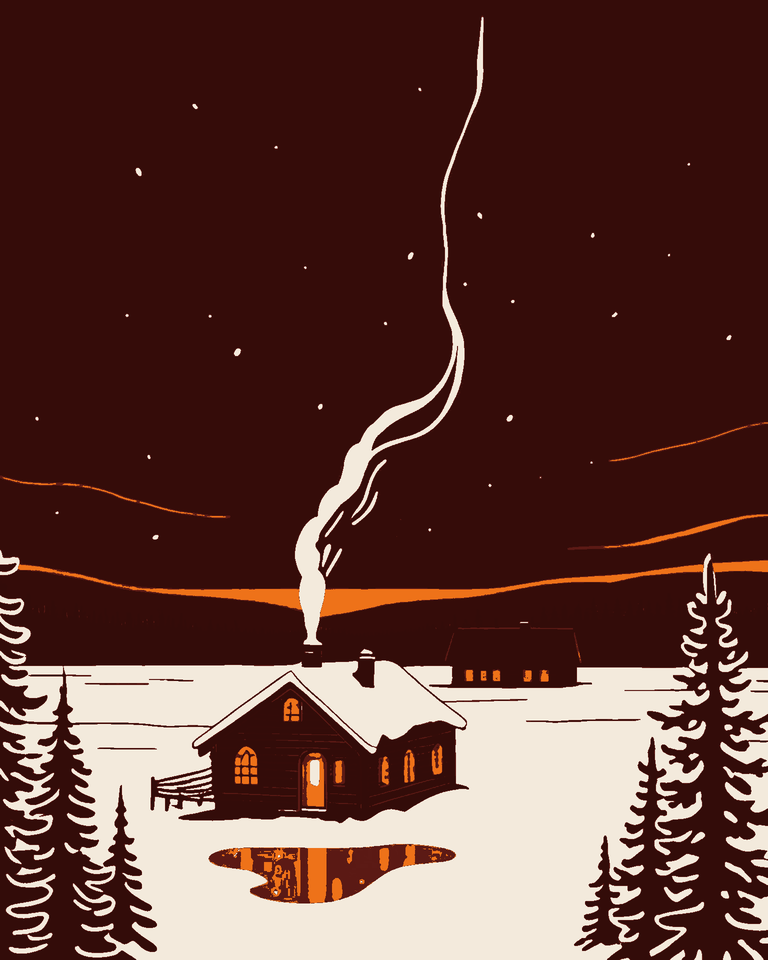
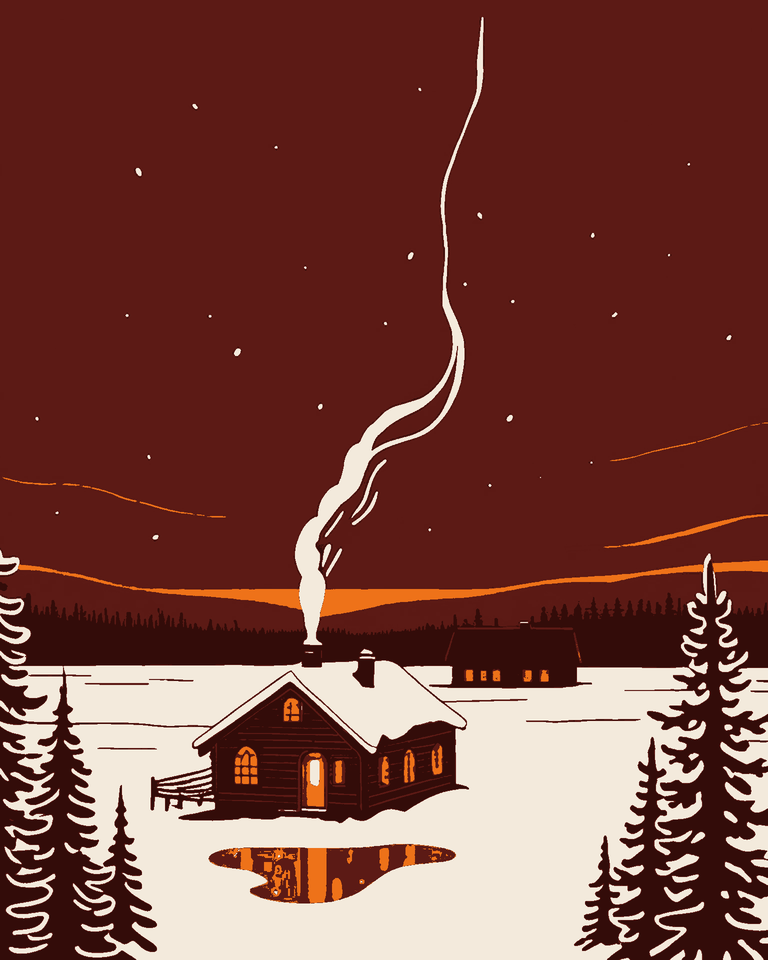
Couvertures en cours : travail des agents (en cours)
Claude-Session: https://claude.ai/code/session_014xDY5FLxFXDJt3nYAYznSZ

diff --git a/images/tomes/essais-ia/tome-5/scene_tome5_v2.py b/images/tomes/essais-ia/tome-5/scene_tome5_v2.py
@@ -1,0 +1,201 @@
+"""Image de départ du tome 5, deuxième version (après le premier tour, 18 octobre 2026).
+
+Au premier tour, le jardin en rangs sur fond papier devenait un champ de neige, l'abri à bois devenait un deuxième
+chalet et le billot disparaissait. Ici : le jardin est feuillu (plants ronds bien marqués, clôture de perches),
+la corde de bois est longue, basse et ouverte (bouts de bûches gros et nombreux, toit mince sur deux poteaux), le
+billot et la hache sont plus gros, le toit du chalet est foncé sans liseré clair, de l'herbe haute et des épilobes
+dans les coins du bas.
+
+    PYTHONDONTWRITEBYTECODE=1 python3 scene_tome5_v2.py ete      écrit depart2-ete.svg
+    PYTHONDONTWRITEBYTECODE=1 python3 scene_tome5_v2.py automne  écrit depart2-automne.svg
+"""
+import os
+import sys
+
+ICI = os.path.dirname(os.path.abspath(__file__))
+sys.path.insert(0, ICI)
+from scene_tome5 import C, W, H, Scene, f, pts, bouleau  # noqa: E402
+
+
+def plant(s, x, y, sc, coul, sorte):
+    """Un plant de jardin vu de trois quarts : touffe de feuilles foncées, nervure claire."""
+    A = s.add
+    if sorte == 0:      # chou : feuilles rondes qui s'ouvrent
+        for a, dx, dy in [(-35, -5, -1), (35, 5, -1), (0, 0, -4), (-70, -7, 2), (70, 7, 2)]:
+            A(f'<ellipse cx="{f(x + dx * sc)}" cy="{f(y + dy * sc)}" rx="{f(5.5 * sc)}" ry="{f(3.6 * sc)}" '
+              f'transform="rotate({a} {f(x + dx * sc)} {f(y + dy * sc)})" fill="{coul}"/>')
+        A(f'<circle cx="{f(x)}" cy="{f(y - 2 * sc)}" r="{f(2.4 * sc)}" fill="{C["paper2"]}"/>')
+    else:               # pomme de terre, haricot : touffe dressée de feuilles pointues
+        for a in (-50, -25, 0, 25, 50):
+            L = 9 * sc * s.u(0.8, 1.1)
+            A(f'<ellipse cx="{f(x)}" cy="{f(y - L / 2)}" rx="{f(1.9 * sc)}" ry="{f(L / 2)}" '
+              f'transform="rotate({a} {f(x)} {f(y)})" fill="{coul}"/>')
+            A(f'<path d="M{f(x)} {f(y)} v{f(-L * 0.8)}" transform="rotate({a} {f(x)} {f(y)})" stroke="{C["paper2"]}" '
+              f'stroke-width="{f(0.35 * sc)}" opacity=".8"/>')
+
+
+def scene(ambiance="ete"):
+    s = Scene(5205 if ambiance == "ete" else 5305)
+    A = s.add
+    automne = ambiance == "automne"
+    A(f'<svg xmlns="http://www.w3.org/2000/svg" width="{W}" height="{H}" viewBox="0 0 {W} {H}">')
+    A('<defs>'
+      f'<linearGradient id="ciel" x1="0" y1="0" x2="0" y2="1"><stop offset="0" stop-color="{C["sky0"]}"/>'
+      f'<stop offset=".5" stop-color="{C["sky1"]}"/><stop offset="1" stop-color="{C["sky2"]}"/></linearGradient>'
+      f'<radialGradient id="halo"><stop offset=".35" stop-color="{C["glow"]}" stop-opacity=".4"/>'
+      f'<stop offset="1" stop-color="{C["glow"]}" stop-opacity="0"/></radialGradient>'
+      '</defs>')
+    A(f'<rect x="0" y="0" width="{W}" height="{H}" fill="url(#ciel)"/>')
+
+    # le soleil bas, ses anneaux, quelques longues lignes de ciel près de l'horizon
+    sx, sy = (585, 486) if not automne else (180, 480)
+    A(f'<circle cx="{sx}" cy="{sy}" r="180" fill="url(#halo)"/>')
+    for k, r in enumerate([140, 110, 86]):
+        A(f'<circle cx="{sx}" cy="{sy}" r="{r}" fill="none" stroke="{C["sun2"]}" stroke-width="{2.2 - k * 0.4}" opacity="{.25 + k * .1}"/>')
+    A(f'<circle cx="{sx}" cy="{sy}" r="60" fill="{C["sun"]}"/>')
+    for i in range(6):
+        y = 410 + i * 12
+        x0 = s.u(-20, 120) if i % 2 else s.u(250, 380)
+        A(f'<path d="M{f(x0)} {f(y)} h{f(s.u(160, 300))}" stroke="{C["paper2"]}" stroke-width="{f(s.u(1.2, 2))}" '
+          f'stroke-linecap="round" opacity="{f(s.u(.16, .28))}"/>')
+
+    # collines basses
+    loin = s.onde(510, [(9, 0.8), (5, 1.9), (2, 6)])
+    A(f'<polygon points="{pts(loin + [(W + 40, 700), (-20, 700)])}" fill="{C["far"]}"/>')
+    for i in range(9):
+        y = 522 + i * 7
+        A(f'<path d="M{f(s.u(-20, 300))} {f(y)} q{f(s.u(80, 160))} {f(s.u(-6, 6))} {f(s.u(200, 420))} {f(s.u(-4, 4))}" fill="none" '
+          f'stroke="{C["sun2"]}" stroke-width="1.2" opacity=".32"/>')
+    milieu = s.onde(556, [(8, 1.1), (4, 2.7), (2, 7)])
+    A(f'<polygon points="{pts(milieu + [(W + 40, 720), (-20, 720)])}" fill="{C["mid"]}"/>')
+    ym = lambda x: min(y for xx, y in milieu if abs(xx - x) <= 6)
+    s.rangee(ym, -10, W + 30, 10, 20, C["mid"], dens=0.9)
+
+    # la forêt derrière le chalet : épinettes et bouleaux feuillus
+    bord = s.onde(646, [(4, 1.7), (2, 4.4)])
+    A(f'<polygon points="{pts(bord + [(W + 40, 720), (-20, 720)])}" fill="{C["near"]}"/>')
+    s.rangee(lambda x: 652, -10, W + 30, 50, 105, C["near"], dens=1.3)
+    for x, h in [(80, 118), (330, 104), (560, 120), (612, 96)]:
+        bouleau(s, x, 656, h, C["far"], feuilles_orange=automne)
+
+    # la clairière
+    sol = s.onde(664, [(3, 1.2), (1.5, 3.5)])
+    A(f'<polygon points="{pts(sol + [(W + 40, H + 40), (-20, H + 40)])}" fill="{C["paper"]}"/>')
+
+    # le chalet en rondins, toit foncé
+    cx, cy = 420, 684
+    A(f'<g transform="translate({cx} {cy})">')
+    A(f'<rect x="70" y="-94" width="13" height="36" fill="{C["front"]}"/>')
+    A(f'<polygon points="-4,-46 104,-46 105,2 -5,3" fill="{C["log"]}"/>')
+    for i in range(9):
+        y = -42 + i * 5.1
+        A(f'<path d="M-6 {f(y)} H106" stroke="{C["front"]}" stroke-width="1.3"/>')
+        A(f'<circle cx="-6" cy="{f(y + 1)}" r="2.6" fill="{C["logend"]}"/><circle cx="106" cy="{f(y + 1)}" r="2.6" fill="{C["logend"]}"/>')
+    A(f'<polygon points="-18,-42 50,-94 118,-42" fill="{C["front"]}"/>')
+    A(f'<rect x="14" y="-32" width="20" height="17" fill="{C["win"]}"/>')
+    A(f'<path d="M24 -32 v17 M14 -23.5 h20" stroke="{C["front"]}" stroke-width="1.6"/>')
+    A(f'<rect x="58" y="-30" width="15" height="30" fill="{C["front"]}"/>')
+    A(f'<path d="M-8 2 H108" stroke="{C["front"]}" stroke-width="3"/>')
+    A('</g>')
+    d = (f"M{cx + 76} {cy - 96} C{cx + 70} {cy - 122} {cx + 98} {cy - 130} {cx + 92} {cy - 154} "
+         f"C{cx + 86} {cy - 178} {cx + 120} {cy - 192} {cx + 150} {cy - 198}")
+    for w, op in [(14, .10), (8, .16), (3.5, .25)]:
+        A(f'<path d="{d}" fill="none" stroke="{C["paper"]}" stroke-width="{w}" stroke-linecap="round" opacity="{op}"/>')
+
+    # la corde de bois : longue, basse, ouverte, bouts de bûches gros ; toit mince sur deux poteaux
+    bx, by, larg = 112, 712, 230
+    nrang = 5 if not automne else 7
+    pas = 13
+    haut = nrang * pas
+    A(f'<path d="M{bx - 14} {by - haut - 26} L{bx + larg + 14} {by - haut - 16} L{bx + larg + 14} {by - haut - 11} '
+      f'L{bx - 14} {by - haut - 21}Z" fill="{C["front"]}"/>')
+    for x in (bx - 6, bx + larg + 6):
+        A(f'<rect x="{x - 3}" y="{by - haut - 20}" width="6" height="{haut + 20}" fill="{C["front"]}"/>')
+    A(f'<rect x="{bx}" y="{by - haut - 2}" width="{larg}" height="{haut + 2}" fill="{C["log"]}"/>')
+    for row in range(nrang):
+        k = 0
+        while True:
+            x = bx + 7 + k * pas + (pas / 2 if row % 2 else 0) + s.u(-1.5, 1.5)
+            if x > bx + larg - 6:
+                break
+            y = by - 7 - row * pas + s.u(-1, 1)
+            r = s.u(5.2, 6.6)
+            if s.r.random() < 0.3:     # bûche fendue : bout en quartier
+                A(f'<path d="M{f(x - r)} {f(y + r * 0.6)} L{f(x)} {f(y - r)} L{f(x + r)} {f(y + r * 0.6)}Z" fill="{C["logend"]}"/>')
+            else:
+                A(f'<circle cx="{f(x)}" cy="{f(y)}" r="{f(r)}" fill="{C["logend"]}"/>')
+                A(f'<circle cx="{f(x)}" cy="{f(y)}" r="{f(r * 0.5)}" fill="none" stroke="{C["log"]}" stroke-width=".8" opacity=".7"/>')
+            k += 1
+
+    # la clôture de perches devant le jardin
+    fy = 734
+    A(f'<path d="M-20 {fy - 10} L{W + 20} {fy - 14}" stroke="{C["front"]}" stroke-width="3"/>')
+    A(f'<path d="M-20 {fy} L{W + 20} {fy - 4}" stroke="{C["front"]}" stroke-width="3"/>')
+    for x in range(10, W, 64):
+        A(f'<path d="M{x} {fy + 8} L{x + 1} {fy - 26}" stroke="{C["front"]}" stroke-width="4" stroke-linecap="round"/>')
+
+    # le jardin : rangs de plants feuillus en perspective, sillons minces
+    vx, vy = 440, 600
+    top = 748
+    rangs = [vx + i * 104 for i in range(-10, 13)]
+    for i, xb in enumerate(rangs):
+        def at(y, xb=xb):
+            return vx + (xb - vx) * (y - vy) / (H + 40 - vy)
+        A(f'<polygon points="{f(at(top) - 1)},{top} {f(at(top) + 1)},{top} {f(at(H + 40) + 6)},{H + 40} {f(at(H + 40) - 6)},{H + 40}" '
+          f'fill="{C["soil"]}" opacity=".75"/>')
+        if i + 1 < len(rangs):
+            xb2 = rangs[i + 1]
+            sorte = i % 2
+            y = top + 4
+            while y < H + 20:
+                t = (y - vy) / (H + 40 - vy)
+                xm = vx + ((xb + xb2) / 2 - vx) * t
+                sc = 0.45 + 2.0 * (y - top) / (H - top)
+                if automne and sorte == 0 and s.r.random() < 0.3 and y > 800:
+                    A(f'<ellipse cx="{f(xm)}" cy="{f(y)}" rx="{f(7 * sc)}" ry="{f(5 * sc)}" fill="{C["sun"]}"/>')
+                else:
+                    plant(s, xm, y, sc, C["leaf"], sorte)
+                y += 10 + 30 * (y - top) / (H - top)
+
+    # le billot de fente, la hache plantée, des quartiers fendus et des copeaux
+    kx, ky = 176, 852
+    A(f'<ellipse cx="{kx}" cy="{ky + 66}" rx="86" ry="16" fill="{C["paper2"]}"/>')
+    A(f'<path d="M{kx - 58} {ky} L{kx - 62} {ky + 64} Q{kx} {ky + 80} {kx + 62} {ky + 64} L{kx + 58} {ky}Z" fill="{C["log"]}"/>')
+    for i in range(7):
+        x = kx - 50 + i * 16.5
+        A(f'<path d="M{f(x)} {ky + 8} v{f(s.u(38, 56))}" stroke="{C["front"]}" stroke-width="2"/>')
+    A(f'<ellipse cx="{kx}" cy="{ky}" rx="58" ry="15" fill="{C["logend"]}"/>')
+    for r in (44, 32, 20, 9):
+        A(f'<ellipse cx="{kx + 2}" cy="{ky}" rx="{r}" ry="{f(r * 0.26)}" fill="none" stroke="{C["log"]}" stroke-width="1.1"/>')
+    A(f'<path d="M{kx - 6} {ky - 3} L{kx + 78} {ky - 96}" stroke="{C["front"]}" stroke-width="10" stroke-linecap="round"/>')
+    A(f'<path d="M{kx - 30} {ky + 3} L{kx - 10} {ky - 20} L{kx + 10} {ky - 4} L{kx - 8} {ky + 8}Z" fill="{C["front"]}"/>')
+    A(f'<path d="M{kx - 30} {ky + 3} L{kx - 22} {ky - 6}" stroke="{C["paper"]}" stroke-width="2.5"/>')
+    for (x, y, a) in [(kx + 92, ky + 54, -15), (kx + 118, ky + 72, 12), (kx - 104, ky + 58, 20)]:
+        A(f'<g transform="rotate({a} {x} {y})"><path d="M{x - 30} {y - 9} L{x + 26} {y - 9} L{x + 26} {y + 8} L{x - 30} {y + 8}Z" '
+          f'fill="{C["log"]}"/><path d="M{x + 26} {y - 9} L{x + 34} {y - 0.5} L{x + 26} {y + 8}Z" fill="{C["logend"]}"/></g>')
+    for _ in range(14):
+        x, y = kx + s.u(-90, 110), ky + s.u(60, 90)
+        A(f'<path d="M{f(x)} {f(y)} l{f(s.u(4, 9))} {f(s.u(-2, 2))}" stroke="{C["logend"]}" stroke-width="2.4" stroke-linecap="round"/>')
+
+    # herbe haute et épilobes dans les coins du bas
+    for x0, x1 in ((-10, 120), (620, 780)):
+        for _ in range(26):
+            x = s.u(x0, x1)
+            h = s.u(40, 110)
+            b = H + 10
+            A(f'<path d="M{f(x)} {f(b)} q{f(s.u(-8, 8))} {f(-h / 2)} {f(s.u(-14, 14))} {f(-h)}" fill="none" stroke="{C["front"]}" '
+              f'stroke-width="{f(s.u(1.5, 3))}" stroke-linecap="round"/>')
+
+    # les grandes épinettes du premier plan, de chaque côté
+    for x, bas, h, l in [(-14, 1000, 400, 104), (44, 990, 240, 62), (728, 1010, 420, 108), (672, 985, 210, 54)]:
+        s.epinette(x, bas, h, l, C["front"])
+    A('</svg>')
+    return "\n".join(s.out)
+
+
+if __name__ == "__main__":
+    amb = sys.argv[1] if len(sys.argv) > 1 else "ete"
+    out = os.path.join(ICI, f"depart2-{amb}.svg")
+    with open(out, "w", encoding="utf-8") as fh:
+        fh.write(scene(amb) + "\n")
+    print(out)

diff --git a/images/tomes/essais-ia/tome-3/scene_tome3.py b/images/tomes/essais-ia/tome-3/scene_tome3.py
@@ -198,15 +198,15 @@ def lac(gros=False):
         y = 880 + i * 12
         A(f'<path d="M{f(s.u(170, 260))} {y} h{f(s.u(120, 300))}" stroke="{V}" stroke-width=".9" opacity=".35"/>')
     # le canot d'écorce tiré sur la grève, la pince vers l'eau
-    for p in (canot(300, 836, 320) if gros else canot(345, 818, 230)):
+    for p in (canot(352, 836, 300) if gros else canot(345, 818, 230)):
         A(p)
     # les grands arbres du premier plan : épinettes noires à gauche, un mélèze doré et des épinettes à droite
-    for x, bas, h, l in [(-4, 990, 430, 104), (64, 960, 300, 70), (118, 880, 150, 38)]:
+    for x, bas, h, l in [(-4, 990, 430, 104), (64, 960, 300, 70)] + ([] if gros else [(118, 880, 150, 38)]):
         s.epinette(x, bas, h, l, V)
     for x, bas, h, l in [(726, 1000, 400, 98), (668, 960, 250, 60)]:
         s.epinette(x, bas, h, l, V)
     # mélèze doré, haut, à droite
-    x, bas, h = 168, 846, 250
+    x, bas, h = (128, 880, 260) if gros else (168, 846, 250)
     for i in range(16):
         yy = bas - h + 12 + i * 13
         ww = 6 + (yy - (bas - h)) / h * 44

diff --git a/images/tomes/essais-ia/tome-4/scene_t4.py b/images/tomes/essais-ia/tome-4/scene_t4.py
@@ -143,8 +143,14 @@ def perche(s, A, x0, x1, y):
 
 def caveau(A, x, bas):
     """La butte enneigée et la porte du caveau, cadre de rondins."""
-    A(f'<path d="M{x - 120} {bas + 6} C{x - 90} {bas - 70} {x - 20} {bas - 96} {x + 50} {bas - 92} '
-      f'C{x + 120} {bas - 88} {x + 170} {bas - 60} {x + 210} {bas + 6}Z" fill="{C["snow2"]}"/>')
+    A(f'<path d="M{x - 150} {bas + 6} C{x - 110} {bas - 90} {x - 20} {bas - 122} {x + 50} {bas - 118} '
+      f'C{x + 130} {bas - 112} {x + 190} {bas - 80} {x + 240} {bas + 6}Z" fill="{C["snow2"]}"/>')
+    # les pierres qui retiennent la terre de chaque côté de la porte
+    for sx in (-1, 1):
+        for k in range(4):
+            px = x + 30 + sx * (48 + k * 13)
+            py = bas - 8 - (3 - k) * 10
+            A(f'<ellipse cx="{px}" cy="{py}" rx="9" ry="6" fill="{C["wood2"]}"/>')
     A(f'<path d="M{x - 110} {bas - 6} C{x - 80} {bas - 66} {x - 20} {bas - 90} {x + 50} {bas - 86}" fill="none" '
       f'stroke="{C["snow3"]}" stroke-width="3"/>')
     # le cadre et la porte

diff --git a/images/tomes/essais-ia/tome-2/trois-encres.py b/images/tomes/essais-ia/tome-2/trois-encres.py
@@ -31,7 +31,9 @@ papier = (V > 0.62) & (S < 0.38)
 orange = ~papier & (H > 12) & (H < 52) & (S > 0.45) & (V > 0.72)
 lum = np.asarray(big.convert("L")).astype(float) / 255.0
 DOUBLE = np.array([0x33, 0x0C, 0x09], float)
-t = np.clip((lum - 0.06) / 0.30, 0, 1)[..., None]
+sombre = ~papier & ~orange
+pivot = np.median(lum[sombre]) - 0.035 if sombre.any() else 0.2     # la valeur du ciel reste l'encre
+t = np.clip((lum - pivot) / 0.06 + 0.5, 0, 1)[..., None]
 t = (t > 0.5).astype(float) * 0.85 + np.clip(t, 0, 1) * 0.15      # deux valeurs franches, un peu de transition
 res = DOUBLE * (1 - t) + ENCRE * t
 res[papier] = PAPIER
